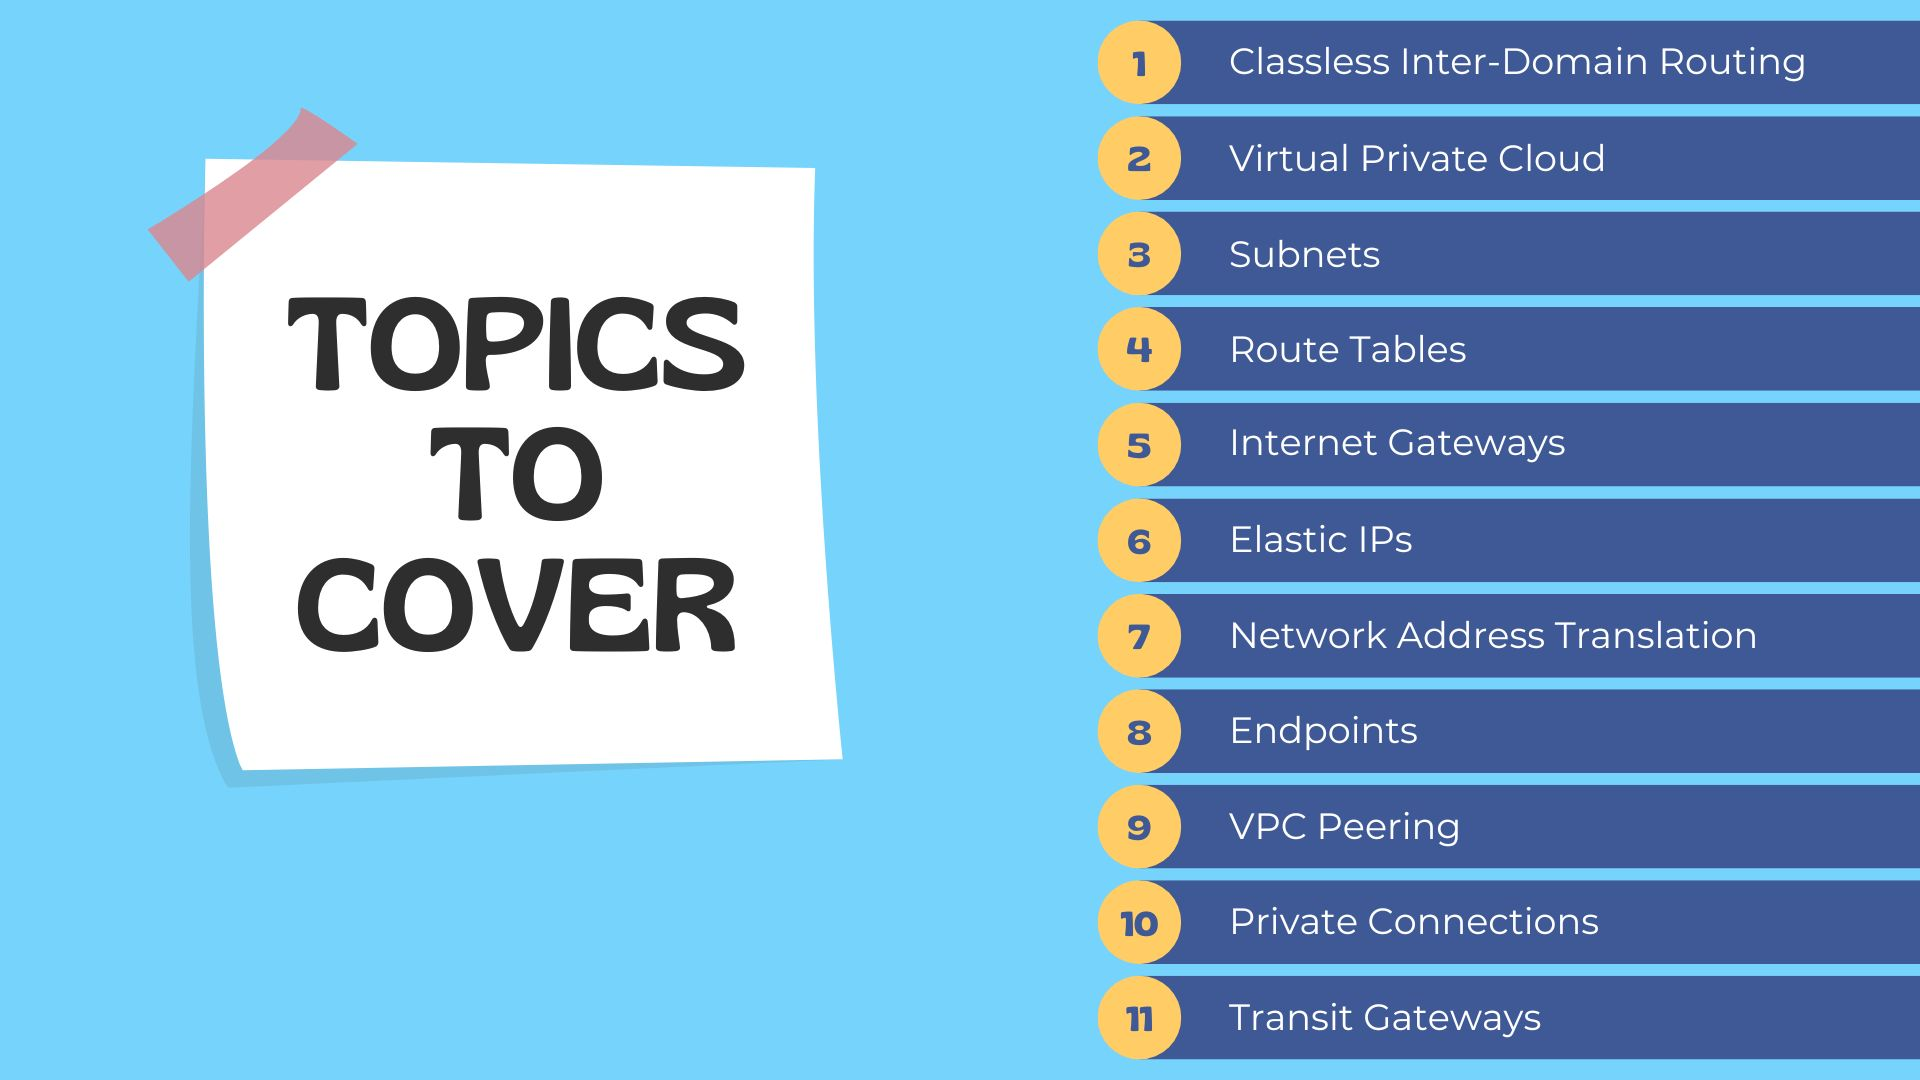
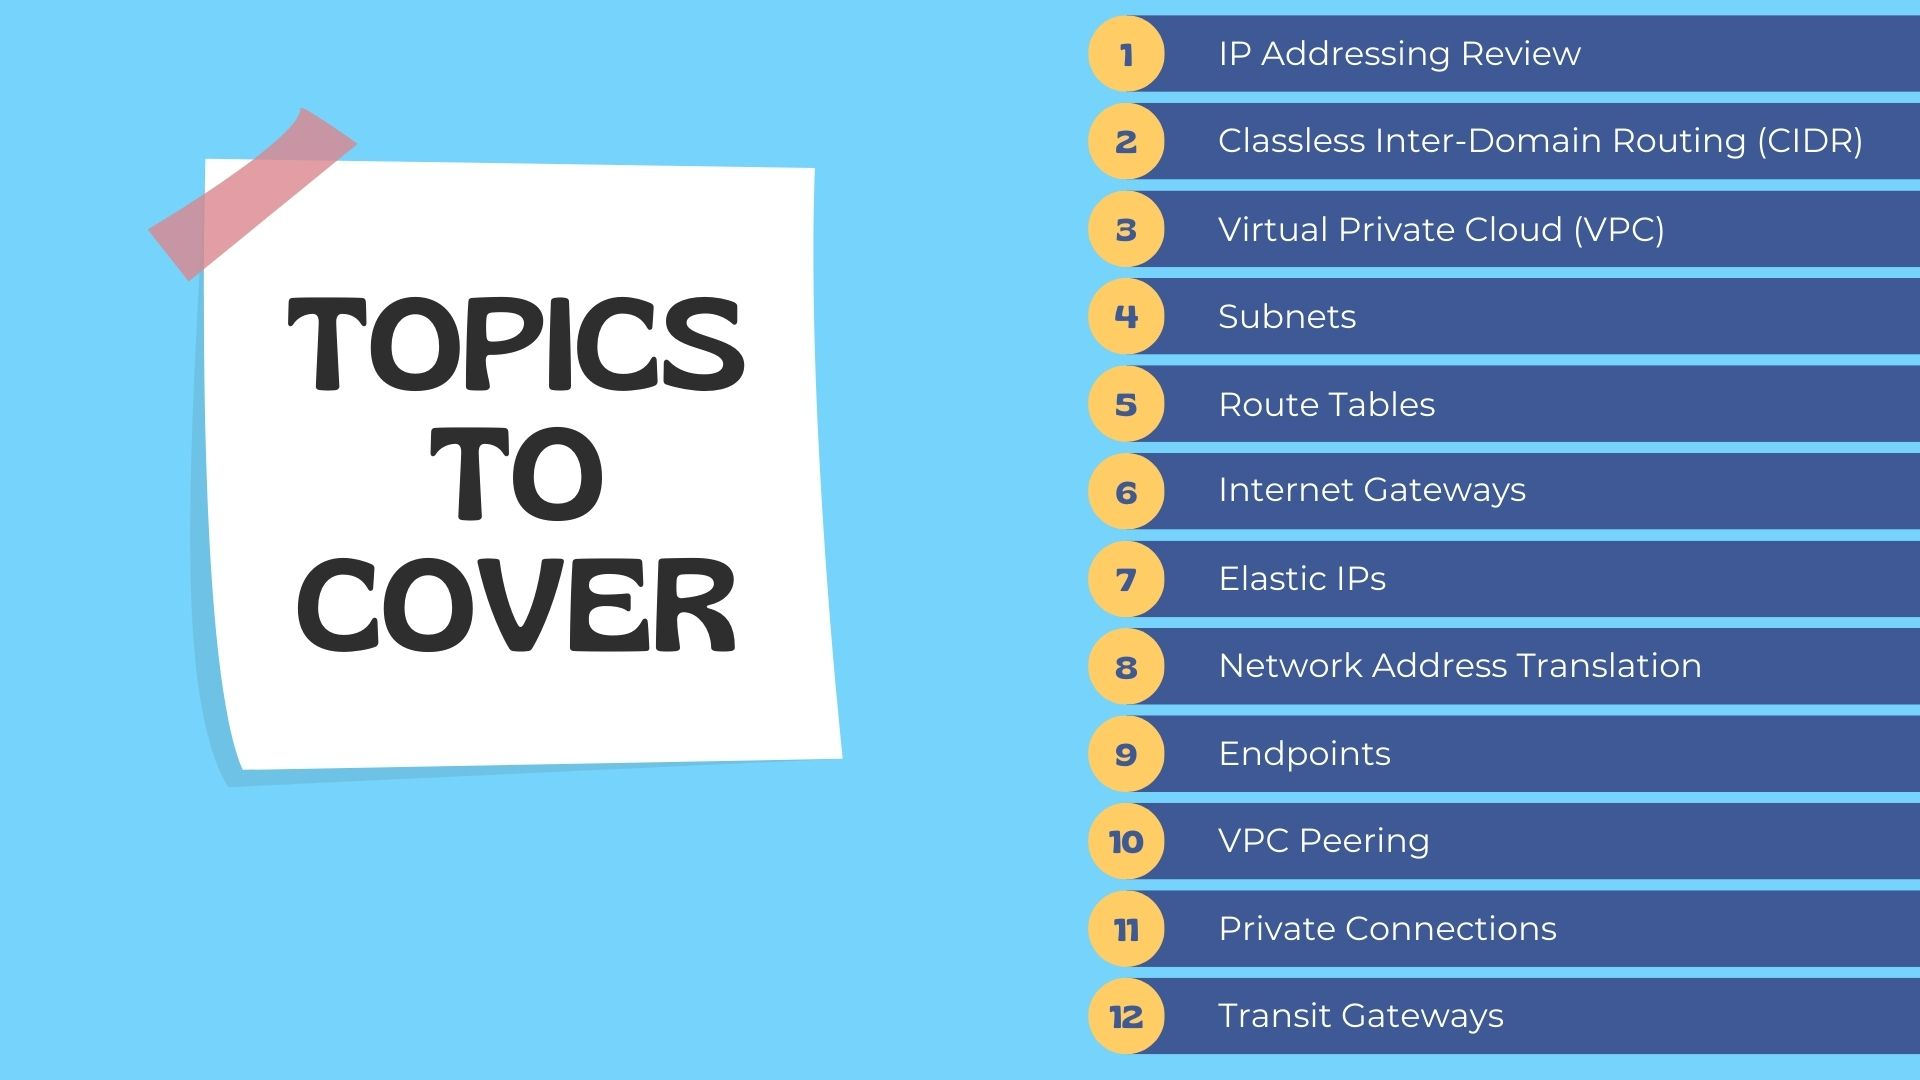
updates CP-VN01

Changed region(s): [[0.5625, 0.0, 1.0, 1.0]]

diff --git a/courses/CP-VN01/index.htm b/courses/CP-VN01/index.htm
@@ -85,9 +85,11 @@
             <div id="slide14" class="carousel-item" data-index="14">
               <img src="img/14.jpg" class="d-block w-100" alt="...">
             </div>
-
-            <!--- make this next section# 1 more than the previous one (eg. if previous is section10 the below one would be section11) -->
             <div id="slide15" class="carousel-item" data-index="15">
+              <img src="img/15.jpg" class="d-block w-100" alt="...">
+            </div>
+            <!--- make this next section# 1 more than the previous one (eg. if previous is section10 the below one would be section11) -->
+            <div id="slide16" class="carousel-item" data-index="16">
               <img src="../../img/course/tutorials/Knowledge.jpg" class="d-block w-100" alt="...">
             </div>
           </div>
@@ -141,6 +143,31 @@
           </section>
 
           <section id="section4" class="learnsection">
+            <h2>IP Addressing Review</h2>
+            <b>IPv4 vs. IPv6</b>
+            <ul>
+                <li>IPv4 is the older version of IP addressing, using 32-bit addresses.</li>
+                <li>IPv6 is the newer version, using 128-bit addresses, providing a much larger address space.</li>
+            </ul>
+            
+            <b>Classful vs. Classless Addressing</b>
+            <ul>
+                <li>Classful addressing divides IP addresses into classes (A, B, C, D, and E) based on the first octet.</li>
+                <li>Classless Inter-Domain Routing (CIDR) is a more flexible method that allows for variable-length subnet masks.</li>
+            </ul>
+            <b>Subnet Masks</b>
+            <ul>
+                <li>A subnet mask is a 32-bit binary number that separates the network prefix from the host identifier.</li>
+                <li>It determines the number of hosts that can be on a network.</li>
+            </ul>
+            <b>Public vs. Private IP Addresses</b>
+            <ul>
+                <li>Public IP addresses are globally unique and accessible from the internet.</li>
+                <li>Private IP addresses are only accessible within a local private network.</li>
+            </ul>
+          </section>
+
+          <section id="section5" class="learnsection">
             <h2>Classless Inter-Domain Routing (CIDR)</h2>
             <p>An IPv4 (Internet Protocol version 4) address is a 32-bit number that uniquely identifies a device on a
               network.</p>
@@ -168,7 +195,7 @@
             </ul>
           </section>
 
-          <section id="section5" class="learnsection">
+          <section id="section6" class="learnsection">
             <h2>Virtual Private Cloud (VPC)</h2>
             <ul>
               <li>A VPC is a virtual network that provides an isolated environment for your cloud resources within a
@@ -185,7 +212,7 @@
             </ul>
           </section>
 
-          <section id="section6" class="learnsection">
+          <section id="section7" class="learnsection">
             <h2>Subnets</h2>
             <b>Sizing and Subnetting:</b>
             <ul>
@@ -212,7 +239,7 @@
             </ul>
           </section>
 
-          <section id="section7" class="learnsection">
+          <section id="section8" class="learnsection">
             <h2>Route Tables</h2>
 
             <p>Route tables serve as the instruction manuals for routers. They provide a detailed roadmap, outlining the
@@ -249,7 +276,7 @@
             </ul>
           </section>
 
-          <section id="section8" class="learnsection">
+          <section id="section9" class="learnsection">
             <h2>Internet Gateways</h2>
             <b>Understanding Internet Gateways (IGW)</b>
 
@@ -276,7 +303,7 @@
               becomes a Public Subnet.</p>
           </section>
 
-          <section id="section9" class="learnsection">
+          <section id="section10" class="learnsection">
             <h2>Elastic IP (EIP)</h2>
             <p>When a Virtual Machine is created in a Public Subnet, it can be given a Public IP address. These Public
               IP addresses are owned by the Cloud Provider and could change upon rebooting your VM. Changing IP
@@ -291,7 +318,7 @@
             </ul>
           </section>
 
-          <section id="section10" class="learnsection">
+          <section id="section11" class="learnsection">
             <h2>NAT Gateways</h2>
             <b>Understanding NAT Gateways</b>
             <ul>
@@ -318,7 +345,7 @@
               to the public internet.</p>
           </section>
 
-          <section id="section11" class="learnsection">
+          <section id="section12" class="learnsection">
             <h2>Cloud Endpoints</h2>
             <p>Cloud Endpoints provide a method to connect your cloud resources to other cloud services. By default,
               public endpoints are availble to all cloud services but requests travel over the public internet.
@@ -334,7 +361,7 @@
             </ul>
           </section>
 
-          <section id="section12" class="learnsection">
+          <section id="section13" class="learnsection">
             <h2>VPC Peering</h2>
             <b>Understanding VPC Peering</b>
 
@@ -366,7 +393,7 @@
             </ul>
           </section>
 
-          <section id="section13" class="learnsection">
+          <section id="section14" class="learnsection">
             <h2>Private Connections</h2>
 
             <p>The following are 2 types of private connections to the cloud:</p>
@@ -409,7 +436,7 @@
             </ul>
           </section>
 
-          <section id="section14" class="learnsection">
+          <section id="section15" class="learnsection">
             <h2>Transit Gateways</h2>
             <b>Understanding Transit Gateway</b>
 
@@ -442,7 +469,7 @@
           </section>
 
           <!--- make this next section# 1 more than the previous one (eg. if previous is section10 the below one would be section11) -->
-          <section id="section15" class="learnsection">
+          <section id="section16" class="learnsection">
             <h2>Congratulations!</h2>
             <p>What is next for you? Let's do a knowledge check to see if you completely grasped the concepts you
               just learned.</p>
